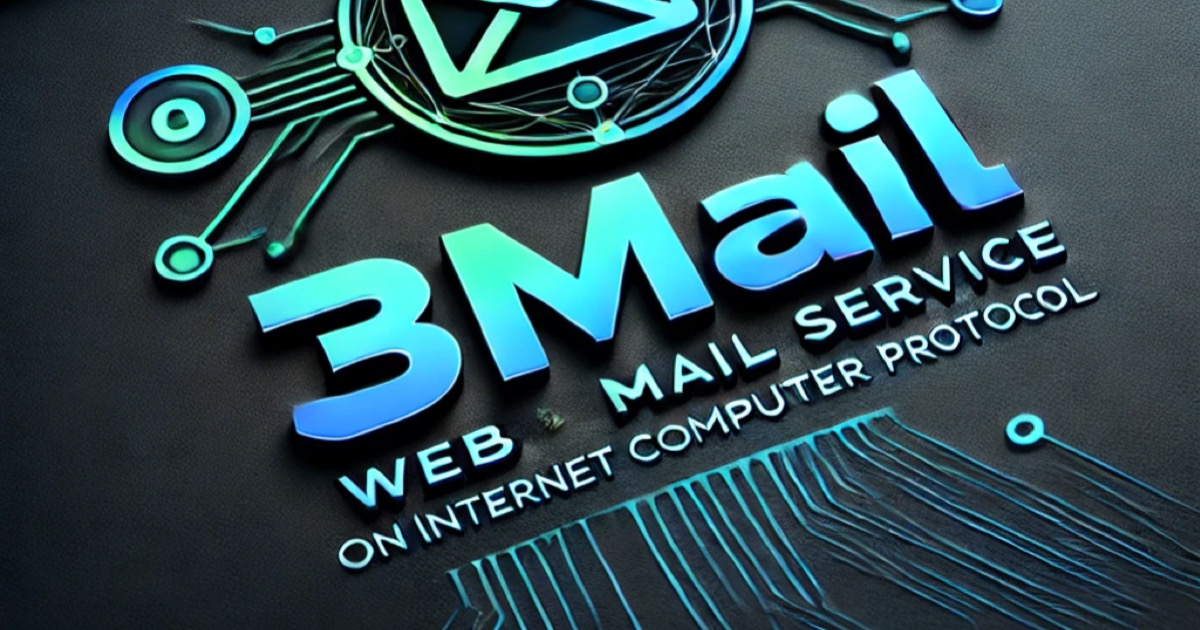
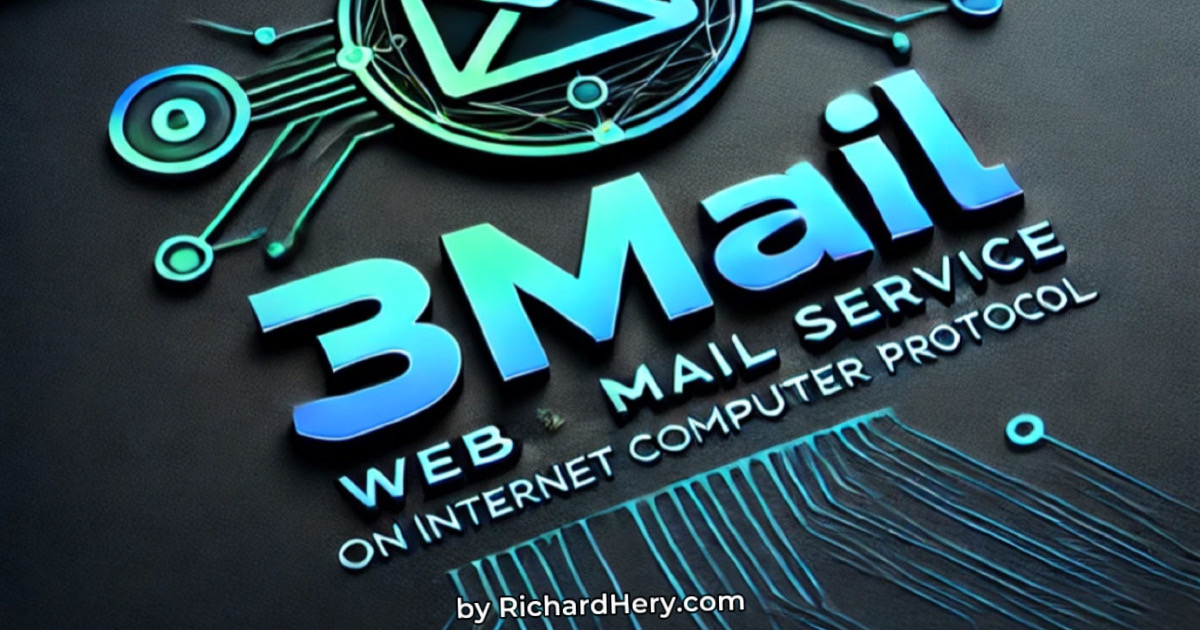
Added a total messages sent counter as well as credit to RichardHery.com at the bottom of the frontend.

Changed region(s): [[0.37, 0.9349, 0.6475, 0.9952]]

diff --git a/src/threeMail_frontend/src/App.jsx b/src/threeMail_frontend/src/App.jsx
@@ -15,8 +15,10 @@ function App() {
   const [response, setResponse] = useState('');
   const [threeMailActor, setThreeMailActor] = useState(null);
   const [totalMessages, setTotalMessages] = useState(0);
+  const [totalMessagesSent, setTotalMessagesSent] = useState(null); // For displaying total sent messages
   const [searchSubject, setSearchSubject] = useState('');
 
+  // Initialize the auth client and fetch the total messages sent
   useEffect(() => {
     async function initAuth() {
       const client = await AuthClient.create();
@@ -27,17 +29,26 @@ function App() {
         setPrincipal(identity.getPrincipal().toText());
         setIsAuthenticated(true);
 
-        // Create an actor using the authenticated identity
         const agent = new HttpAgent({ identity });
         const actor = Actor.createActor(threeMail_backend_idl, {
           agent,
           canisterId: threeMail_backend_id,
         });
         setThreeMailActor(actor);
+
+        // Fetch the total number of messages sent
+        try {
+          const totalSent = await actor.getTotalMessagesSent();
+          console.log('Total Messages Sent:', totalSent);  // Debugging line
+          setTotalMessagesSent(totalSent.toString());  // Convert to string
+        } catch (error) {
+          console.error('Failed to fetch total messages sent:', error);
+          setTotalMessagesSent("0");  // Ensure state is updated even on error
+        }
       }
     }
     initAuth();
-  }, []);
+  }, []);  // Empty dependency array means this runs once on component mount
 
   const handleLogin = async () => {
     if (authClient) {
@@ -48,13 +59,21 @@ function App() {
           setPrincipal(identity.getPrincipal().toText());
           setIsAuthenticated(true);
 
-          // Create an actor using the authenticated identity
           const agent = new HttpAgent({ identity });
           const actor = Actor.createActor(threeMail_backend_idl, {
             agent,
             canisterId: threeMail_backend_id,
           });
           setThreeMailActor(actor);
+
+          try {
+            const totalSent = await actor.getTotalMessagesSent();
+            console.log('Total Messages Sent:', totalSent);  // Debugging line
+            setTotalMessagesSent(totalSent.toString());  // Convert to string
+          } catch (error) {
+            console.error('Failed to fetch total messages sent:', error);
+            setTotalMessagesSent("0");  // Ensure state is updated even on error
+          }
         }
       });
     }
@@ -67,6 +86,28 @@ function App() {
       setPrincipal('');
       setMessages([]);
       setThreeMailActor(null);
+    }
+  };
+
+  const handleSendMessage = async (event) => {
+    event.preventDefault();
+    try {
+      if (threeMailActor) {
+        const recipientPrincipal = Principal.fromText(recipient);
+        const result = await threeMailActor.submitMessage(recipientPrincipal, subject, messageBody);
+        setResponse(result);
+        setRecipient('');  // Clear the recipient field after sending
+        setSubject('');     // Clear the subject field after sending
+        setMessageBody(''); // Clear the message field after sending
+
+        // Update the total messages sent
+        const totalSent = await threeMailActor.getTotalMessagesSent();
+        console.log('Total Messages Sent After Sending:', totalSent);  // Debugging line
+        setTotalMessagesSent(totalSent.toString());  // Convert to string
+      }
+    } catch (error) {
+      console.error("Error sending message:", error);
+      setResponse("Failed to send message.");
     }
   };
 
@@ -106,23 +147,6 @@ function App() {
       }
     } catch (error) {
       console.error("Error retrieving sent messages:", error);
-    }
-  };
-
-  const handleSendMessage = async (event) => {
-    event.preventDefault();
-    try {
-      if (threeMailActor) {
-        const recipientPrincipal = Principal.fromText(recipient);
-        const result = await threeMailActor.submitMessage(recipientPrincipal, subject, messageBody);
-        setResponse(result);
-        setRecipient('');  // Clear the recipient field after sending
-        setSubject('');     // Clear the subject field after sending
-        setMessageBody(''); // Clear the message field after sending
-      }
-    } catch (error) {
-      console.error("Error sending message:", error);
-      setResponse("Failed to send message.");
     }
   };
 
@@ -286,11 +310,26 @@ function App() {
             </div>
           )}
 
+          {/* Display total messages sent */}
+          <div style={{ marginTop: '30px', padding: '20px', backgroundColor: '#f9f9f9', borderRadius: '10px', textAlign: 'center' }}>
+            <h2>About 3Mail</h2>
+            <p>
+              3Mail is a decentralized messaging app hosted on the Internet Computer blockchain. This ensures that your messages are secure,
+              immutable, and private.
+            </p>
+            <p>
+              To date, <strong>{totalMessagesSent !== null ? totalMessagesSent : '...'}</strong> messages have been sent through 3Mail.
+            </p>
+            <p>
+              Created by <a href="https://richardhery.com" target="_blank" rel="noopener noreferrer">RichardHery.com</a>
+            </p>
+          </div>
+
           {/* Advertisement Spot */}
           <div style={{ marginTop: '30px', textAlign: 'center' }}>
             <h3>Brought to you by</h3>
             <a href="https://3jorm-yqaaa-aaaam-aaa6a-cai.ic0.app/index-gaming.html" target="_blank" rel="noopener noreferrer">
-              <img src="/images/advertisement.png" alt="Advertisement" style={{ maxWidth: '100%', height: 'auto' }} />
+              <img src="/images/advertisement.png" alt="Advertisement" style={{ maxWidth: '120%', height: 'auto' }} />
             </a>
           </div>
         </div>
